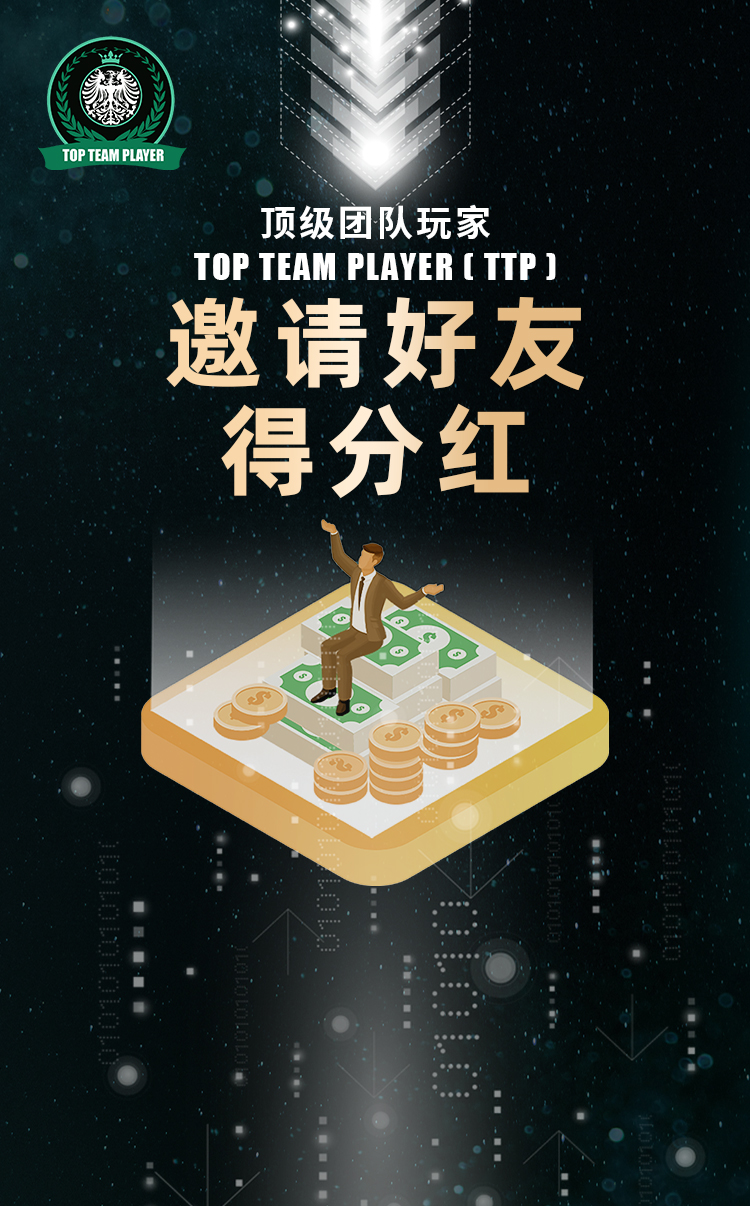
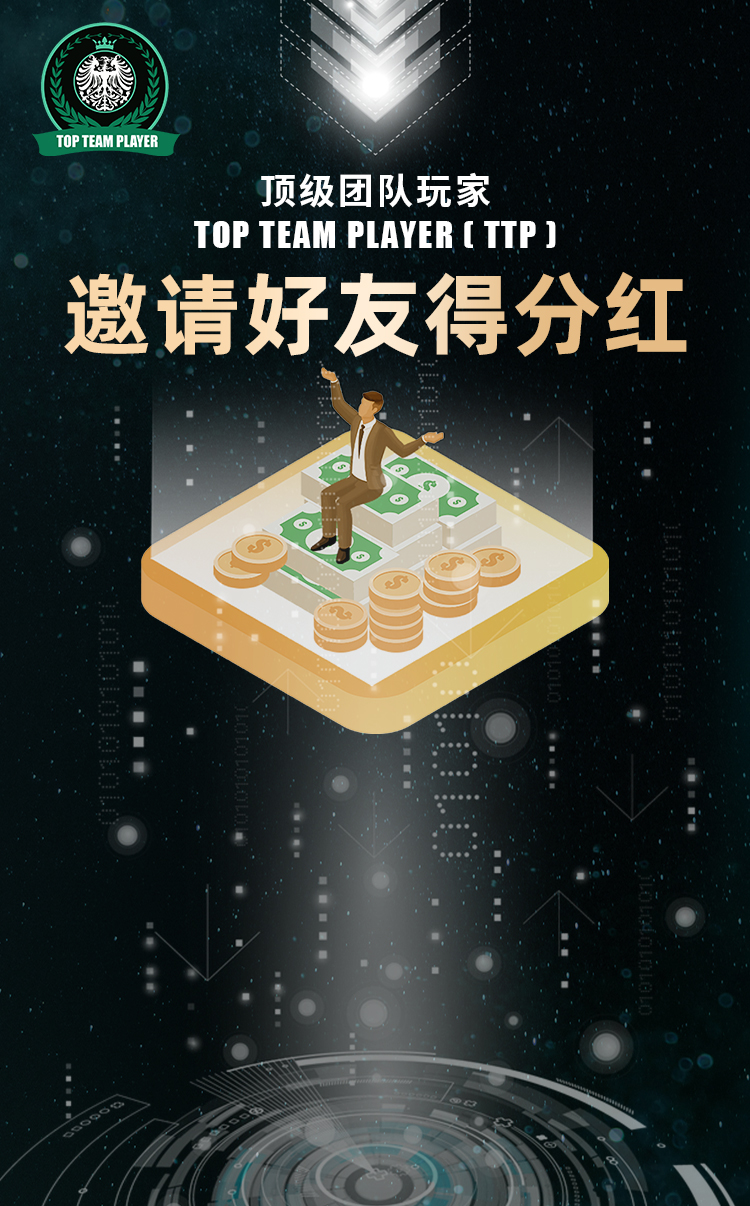
0.3.2 邀请好友背景图替换

diff --git a/app/index/view/me/邀请.html b/app/index/view/me/邀请.html
@@ -13,7 +13,7 @@
 	<style type="text/css">
 		.content_bg{
 			margin-top: 44px;
-			background-image: url(/static/index/img/邀请好友_0{$bgi}.png);
+			background-image: url(/static/index/img/邀请好友_0{$bgi}.jpg);
 			background-size: 100% 100%;
 		}
 		.invite_img{
@@ -22,7 +22,7 @@
 		}
 		.flexbox_nowrap{
 			margin: 10px;
-			margin-top: 80%;
+			margin-top: 95%;
 			padding: 10%;
 			border-radius: 5px;
 			border: 1px solid #267a6c;
